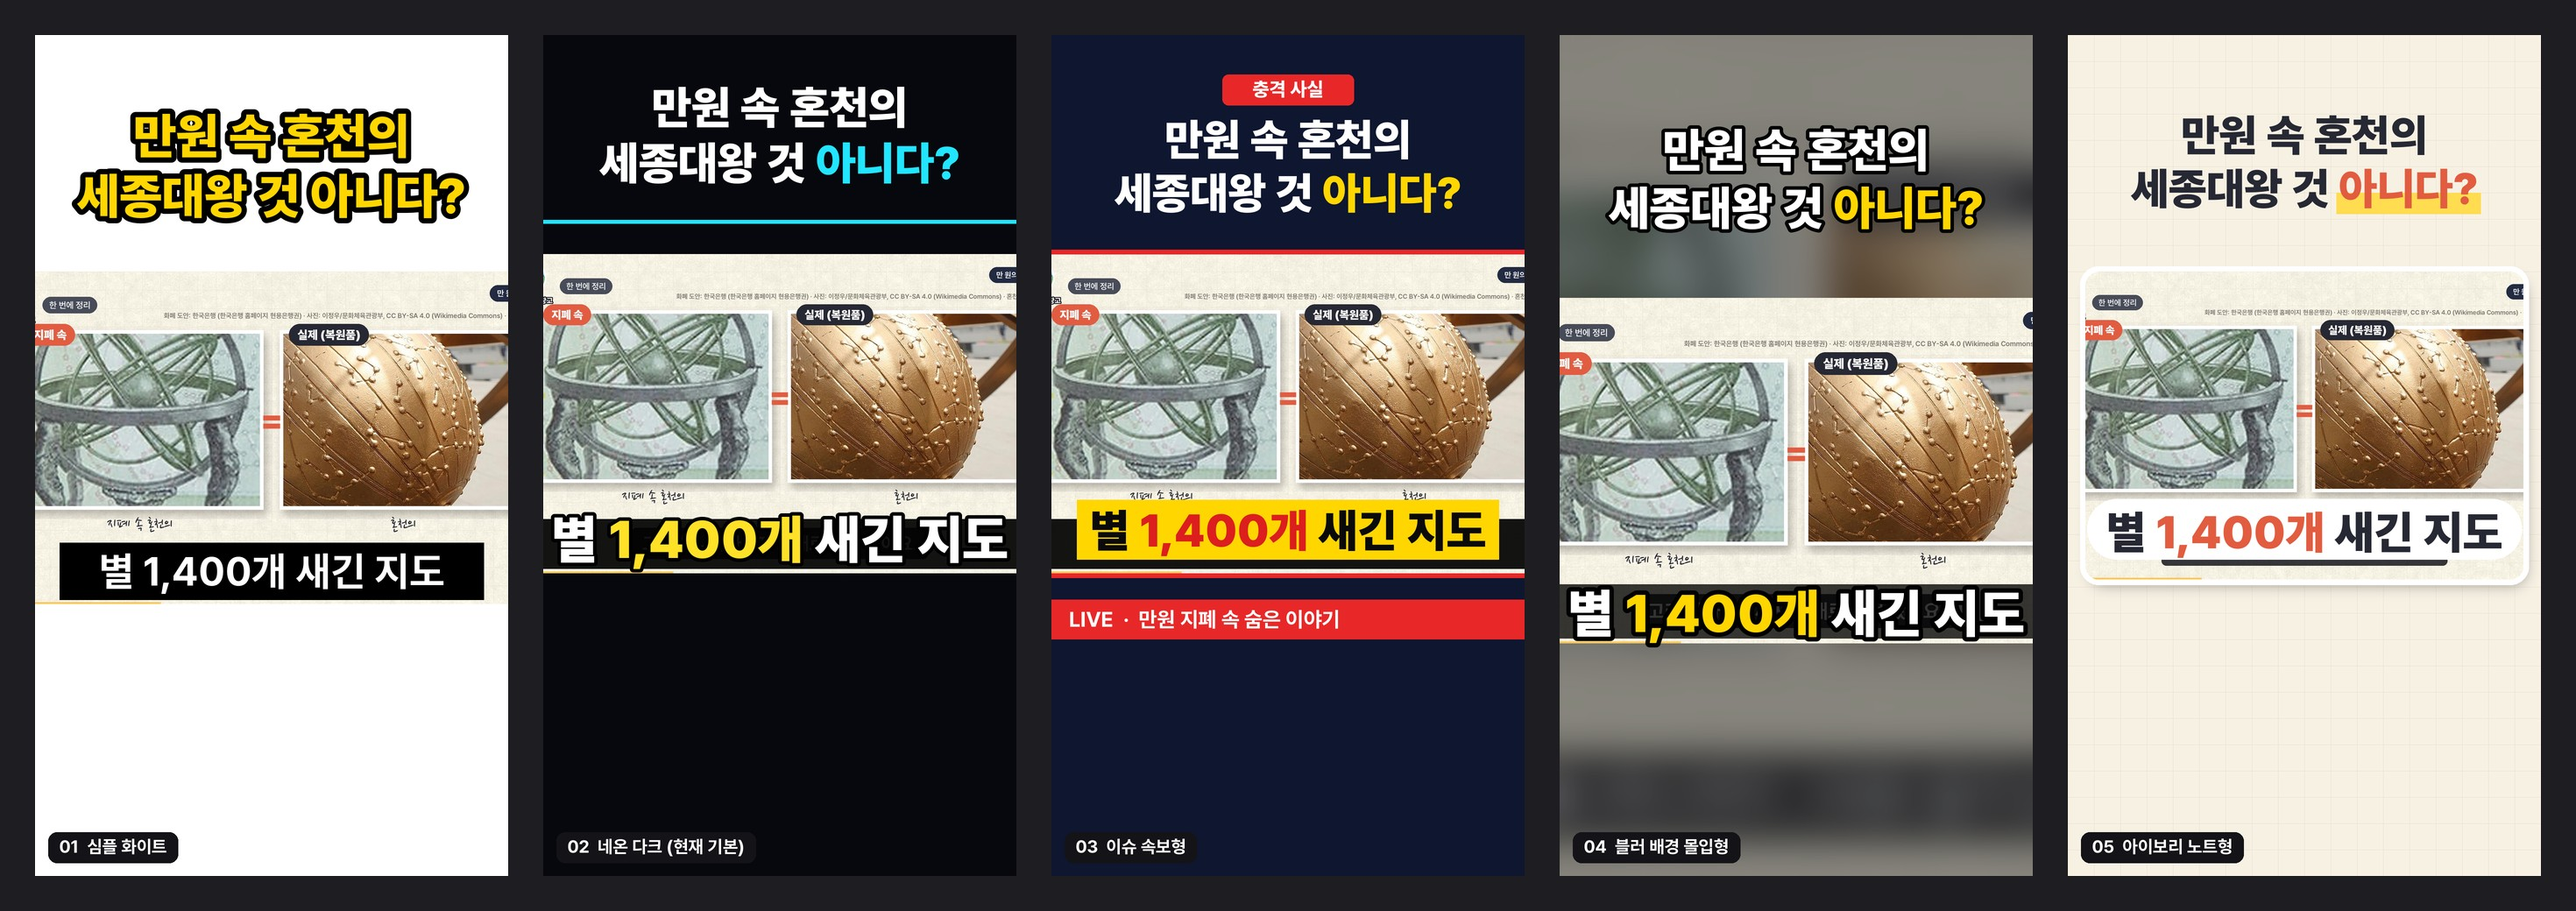
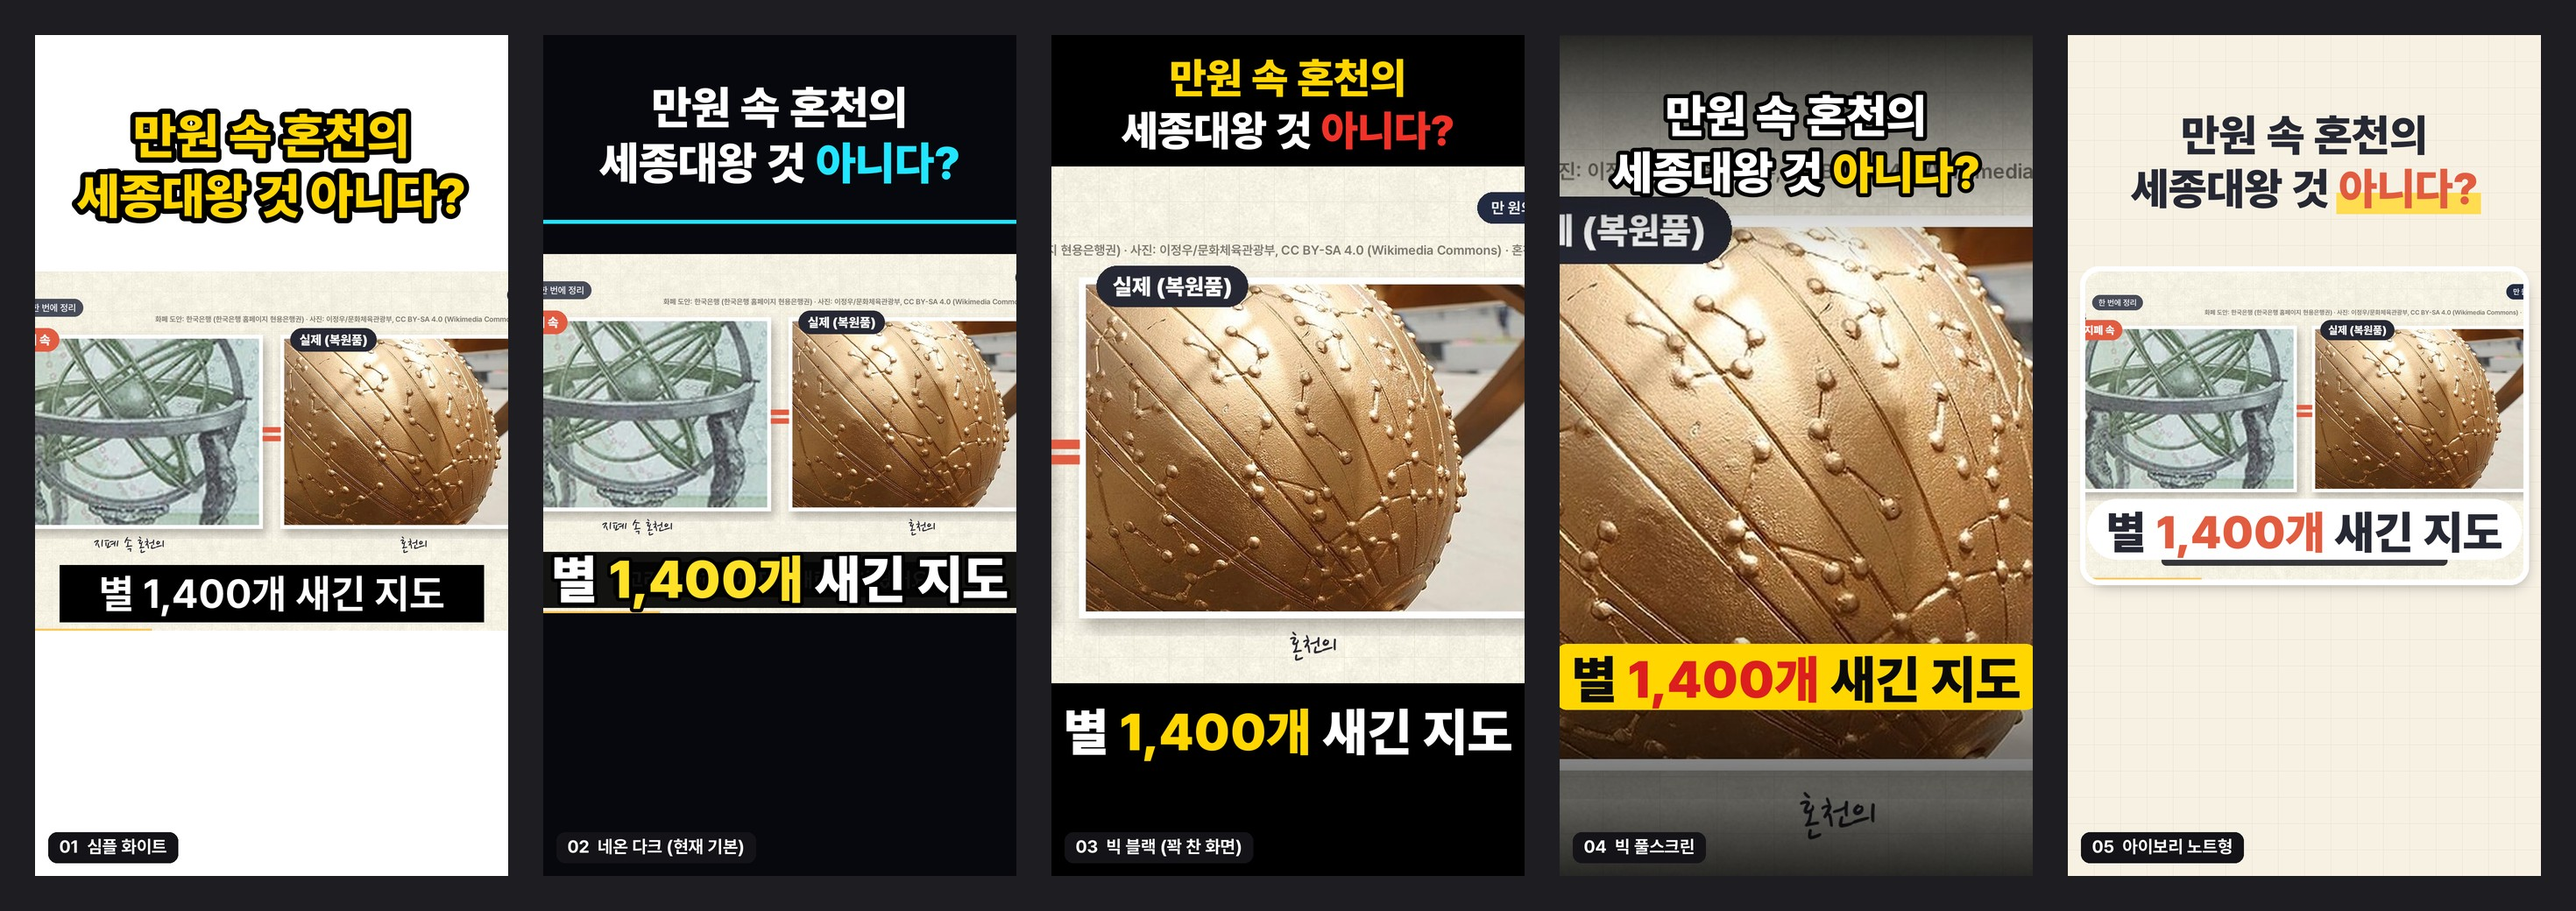
쇼츠 팩토리 템플릿: 본영상 큰 템플릿 2종(빅 블랙 · 빅 풀스크린)으로 교체
Claude-Session: https://claude.ai/code/session_01XzgYRsYwxnJKVwoBmLGtiR

diff --git a/business/sf_screens/templates5_make.py b/business/sf_screens/templates5_make.py
@@ -65,7 +65,7 @@ def t1():
     d = ImageDraw.Draw(im)
     f = F(112)
     head_lines(d, 300, f, (255, 214, 0), (255, 214, 0), stroke=12, sc=(0, 0, 0))
-    v = cover_burned(video(W, 1.25), (255, 255, 255), 0)  # 띠 없이, 자막 박스가 덮음
+    v = cover_burned(video(W, 1.35), (255, 255, 255), 0)  # 띠 없이, 자막 박스가 덮음
     vy = 540
     im.paste(v, (0, vy))
     f2 = F(92, "Bold")
@@ -84,7 +84,7 @@ def t2():
     d = ImageDraw.Draw(im)
     head_lines(d, 230, F(104), (255, 255, 255), (34, 229, 255))
     d.rectangle((0, 422, W, 430), fill=(34, 229, 255))
-    v = cover_burned(video(W))
+    v = cover_burned(video(W, 1.35))
     vy = 500
     im.paste(v, (0, vy))
     f2 = F(120)
@@ -175,7 +175,54 @@ def t5():
     return im
 
 
-ims = [t() for t in (t1, t2, t3, t4, t5)]
+
+def crop_box(w, h, fx=0.5, keep=0.82):
+    # 원본 위쪽 82%만 사용(아래 원본 자막은 잘라냄) → 세로로 긴 칸에 꽉 채움
+    sh = int(SRC.size[1] * keep)
+    sw = int(sh * w / h)
+    x = int(max(0, min(SRC.size[0] - sw, SRC.size[0] * fx - sw / 2)))
+    return SRC.crop((x, 0, x + sw, sh)).resize((w, h), Image.LANCZOS)
+
+
+# 03 빅 블랙 (본영상 꽉 차게)
+def tb1():
+    im = Image.new("RGB", (W, H), (0, 0, 0))
+    d = ImageDraw.Draw(im)
+    f = F(96)
+    d.text(((W - f.getlength(HEAD[0])) / 2, 40), HEAD[0], font=f, fill=(255, 214, 0))
+    parts = [(HEAD[1][:HEAD[1].index(HL)], 0), (HL, 1)]
+    draw_parts(d, (W - text_w(parts, f)) / 2, 160, parts, f, (255, 255, 255), (240, 50, 40))
+    vy, vh = 300, 1180
+    im.paste(crop_box(W, vh, 0.7), (0, vy))
+    f2 = F(118)
+    tw = text_w(SUB, f2)
+    draw_parts(d, (W - tw) / 2, vy + vh + 40, SUB, f2, (255, 255, 255), (255, 214, 0), 8)
+    label(im, 3, "빅 블랙 (꽉 찬 화면)")
+    return im
+
+
+# 04 빅 풀스크린 (화면 전체 + 위아래 그라데이션)
+def tb2():
+    im = crop_box(W, H, 0.7).convert("RGBA")
+    g = Image.new("RGBA", (W, H), (0, 0, 0, 0))
+    gd = ImageDraw.Draw(g)
+    for y in range(520):
+        gd.line((0, y, W, y), fill=(0, 0, 0, int(215 * (1 - y / 520))))
+    for y in range(1300, H):
+        gd.line((0, y, W, y), fill=(0, 0, 0, int(215 * (y - 1300) / (H - 1300))))
+    im = Image.alpha_composite(im, g).convert("RGB")
+    d = ImageDraw.Draw(im)
+    head_lines(d, 250, F(106), (255, 255, 255), (255, 214, 0), stroke=9)
+    f2 = F(118)
+    tw = text_w(SUB, f2)
+    by = 1400
+    d.rounded_rectangle(((W - tw) / 2 - 36, by - 10, (W + tw) / 2 + 36, by + 140), 24, fill=(255, 214, 0))
+    draw_parts(d, (W - tw) / 2, by, SUB, f2, (10, 10, 10), (220, 30, 30))
+    label(im, 4, "빅 풀스크린")
+    return im
+
+
+ims = [t() for t in (t1, t2, tb1, tb2, t5)]
 for i, im in enumerate(ims, 1):
     im.save(D + f"tpl{i}.jpg", quality=90)
 sw = 540

diff --git a/business/shorts_factory.md b/business/shorts_factory.md
@@ -30,7 +30,8 @@
 
 ## 기능 정리 (11/22 논의안)
 ### 템플릿 5종 (sf_screens/templates5.jpg)
-01 심플 화이트 · 02 네온 다크(기본) · 03 이슈 속보형 · 04 블러 배경 몰입형 · 05 아이보리 노트형
+01 심플 화이트 · 02 네온 다크(기본) · 03 빅 블랙(꽉 찬 화면) · 04 빅 풀스크린 · 05 아이보리 노트형
+- 03·04는 본영상을 세로로 크게 잘라 쓰고, 원본 자막 줄은 잘라냄. 자를 위치는 AI가 얼굴·움직임 따라 자동
 - 생성 전 1개 고르면 5개 쇼츠에 모두 적용, 편집기에서 쇼츠별로 바꿀 수 있음
 - 공통 규칙: 자막 한 줄 · 크게 · 숫자/핵심어 강조색 · 본영상 크게 · 원본 자막은 덮기
 
